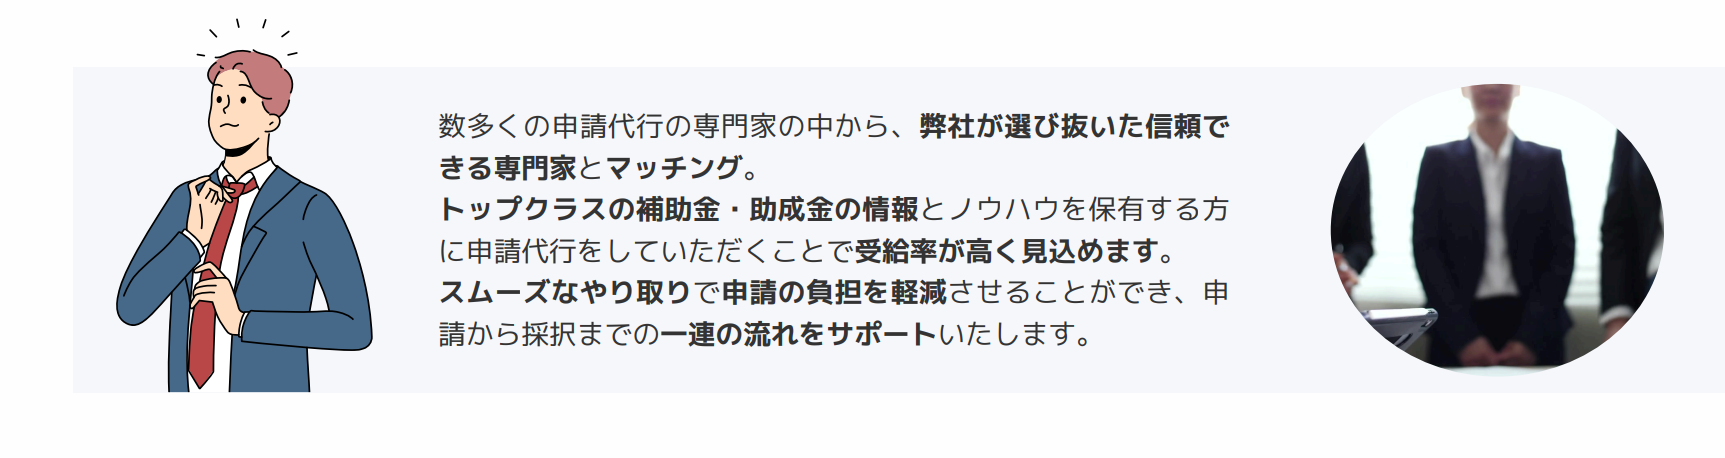
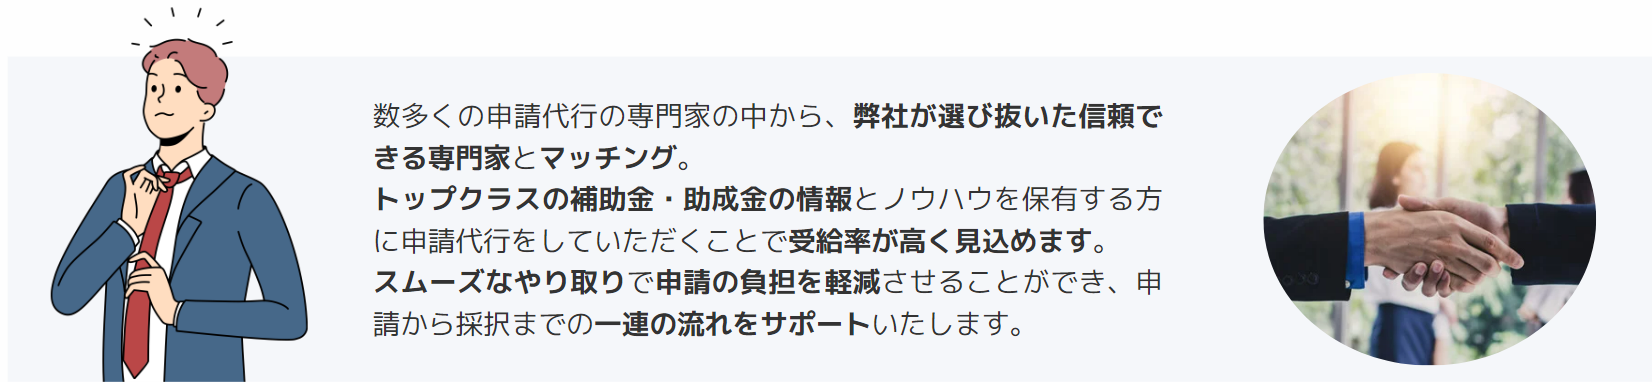
Add files via upload

diff --git a/business_style.css b/business_style.css
@@ -1,4 +1,16 @@
 @import url('https://fonts.googleapis.com/css2?family=M+PLUS+1c:wght@700&display=swap');
+html, body{
+  height: 100%;
+    margin: 0;
+}
+body{
+  display: flex;
+  flex-direction: column;
+  overflow-x: hidden;
+}
+main{
+  flex: 1 0 auto; /* Flex-grow to take up space and push footer down */
+}
 header {
   background: white;
   color: black;
@@ -61,10 +73,10 @@ header {
     background: #fff;
     margin: 4px;
   }
-.business-top {
+  .business-top {
     position: relative;
     height: 45vh;
-    background: url('jigyou.jpg') no-repeat center center/cover;
+    background: url('business.png') no-repeat center center/cover;
     display: flex;
     justify-content: flex-end;
     align-items: flex-end;
@@ -76,22 +88,21 @@ header {
     bottom: 0;
     left: 0;
     width: 100%;
-    /* padding: 20px; */
-    padding-bottom: 50px;
-    padding-left: 0px;
-    text-align: center;
-    
-  }
+    padding-bottom: 10px; /* Adjust padding if necessary */
+    padding-left: 20px; /* Add padding to position the text more inward */
+    text-align: left;
+}
 
-.business-top .overlay h1{
-    font-family: Georgia, serif;
+.business-top .overlay h1 {
+    font-family: 'M PLUS Rounded 1c', sans-serif; /* Add this to import the font */
+    font-weight: 800; /* Equivalent to ExtraBold 800 */
     color: white;
-    font-size: 3em;
+    font-size: 5em;
+    margin: 0;
+    text-shadow: 2px 2px 4px rgba(0, 0, 0, 0.5); /* Add a subtle shadow */
+
 }
 
-.business-top .overlay p{
-    font-family: system-ui;
-}
 
 .business-content {
     max-width: 600px;
@@ -136,7 +147,7 @@ header {
   }
 
   .first .result img {
-    width: 600px;
+    width: 550px;
     margin: 1em;
     border-radius: 30px;
   }
@@ -145,7 +156,8 @@ header {
     text-align: center;
     padding: 1.5em 1em;
     background-image: url(companyback.png);
-    height: 88vh;
+    height: 80vh;
+    width: 100%;
 }
 
 .second .text {
@@ -173,6 +185,7 @@ header {
     text-align: center;
     padding: 1.5em 1em;
     background-color: #fefefe;
+    width: 100%;
 }
 
 .third .content img{
@@ -185,10 +198,11 @@ header {
     padding: 1.5em 1em;
     background-image: url(companyback.png);
     height: 88vh;
+    width: 100%;
 }
 
 .fourth .content img{
-    width: 1000px;
+    width: 850px;
     margin: 1em;
     border-radius: 30px;
 }
@@ -198,13 +212,12 @@ header {
     margin: 1em;
 }
 
-
 footer {
-    background: #333;
-    color: white;
-    text-align: center;
-    padding: 1em;
-    position: relative;
-    bottom: 0;
-    width: 100%;
+  background: #333;
+  color: white;
+  text-align: center;
+  padding: 0.8em;
+  width: 100%;
+  /* Ensure the footer is at the bottom */
+  margin-top: auto;
     }

diff --git a/stylesheet.css b/stylesheet.css
@@ -1,13 +1,13 @@
 #stylesheet
 body {
-  font-family: Arial, sans-serif;
+  font-family: 'M PLUS Rounded 1c', sans-serif; /* Add this to import the font */
   margin: 0;
   padding: 0;
   color: #333;
-}
-
-body, html {
-  font-family: 'Arial', sans-serif;
+  display: flex;
+  flex-direction: column;
+  overflow-x: hidden;
+ 
 }
 
 header {
@@ -92,7 +92,7 @@ header {
   top: 10em;
   left: 0;
   right: 0;
-  padding: 20px;
+  padding: 15px;
 }
 
 .top-content {
@@ -104,13 +104,10 @@ header {
   align-items: center;
 }
 
-.top-content .contact {
+.contact {
   position: absolute;
-  top: 25em; /* Adjusts the position of the button relative to the bottom */
-  left: 1.5em; /* Adjusts the position of the button relative to the right */
-}
-
-.top-content .contact a {
+  top: 30em; /* Adjusts the position of the button relative to the top */
+  left: 1.5em; /* Adjusts the position of the button relative to the left */
   color: #001c4e;
   padding: 15px;
   text-decoration: none;
@@ -120,14 +117,14 @@ header {
   transition: background-color 0.3s ease;
   display: inline-block;
   background-color: white;
-  font-weight: bold;
-  border-radius: 5px;
-  box-shadow: 0px 2px 4px rgba(0, 0, 0, 0.2);
+  /* box-shadow: 0px 2px 4px rgba(0, 0, 0, 0.2); */
+  z-index: 10; /* Ensures button is above other elements */
 }
 
-.top-content .contact a:hover {
+.contact:hover {
   background-color: #d1e7ff;
 }
+
 
 .overlay h1 {
   width: 100%;
@@ -223,7 +220,7 @@ header {
 }
 
 .third .option a {
-  font-size: 1.2em;
+  font-size: 1.8em;
   font-weight: bold;
   color: #001c4e;
   text-decoration: none;
@@ -291,6 +288,7 @@ header {
 
 .fourth p {
   font-size: 1.8rem; /* Larger font size for paragraph */
+  font-weight: 550;
 }
 
 .fourth h2, .fourth p {

diff --git a/about_stylesheet.css b/about_stylesheet.css
@@ -67,21 +67,23 @@ header {
 }
 
 .about-section .overlay {
-    position: absolute;
-    bottom: 0;
-    left: 0;
-    width: 100%;
-    /* padding: 20px; */
-    padding-bottom: 50px;
-    padding-left: 0px;
-    text-align: center;
-    
+  position: absolute;
+  bottom: 0;
+  left: 0;
+  width: 100%;
+  padding-bottom: 10px; /* Adjust padding if necessary */
+  padding-left: 20px; /* Add padding to position the text more inward */
+  text-align: left;
   }
 
 .about-section .overlay h1{
-    font-family: Georgia, serif;
-    font-size: 3em;
-    color: white;
+  font-family: 'M PLUS Rounded 1c', sans-serif; /* Add this to import the font */
+  font-weight: 800; /* Equivalent to ExtraBold 800 */
+  color: white;
+  font-size: 3.5em;
+  margin: 0;
+  text-shadow: 2px 2px 4px rgba(0, 0, 0, 0.5); /* Add a subtle shadow */
+
 }
 
 .about-content {

diff --git a/company_style.css b/company_style.css
@@ -78,14 +78,19 @@ header {
     bottom: 0;
     left: 0;
     width: 100%;
-    padding-bottom: 50px;
-    text-align: center;
+    padding-bottom: 10px; /* Adjust padding if necessary */
+    padding-left: 20px; /* Add padding to position the text more inward */
+    text-align: left;
   }
   
   .company-top .overlay h1 {
-    font-family: Georgia, serif;
-    font-size: 3em;
+    font-family: 'M PLUS Rounded 1c', sans-serif; /* Add this to import the font */
+    font-weight: 800; /* Equivalent to ExtraBold 800 */
     color: white;
+    font-size: 5em;
+    margin: 0;
+    text-shadow: 2px 2px 4px rgba(0, 0, 0, 0.5); /* Add a subtle shadow */
+
   }
   
   .company-content {

diff --git a/index.html b/index.html
@@ -43,9 +43,10 @@
         <div class="overlay animate__animated animate__fadeInUp animate__delay-1s">
           <h1>株式会社<br>NEXT IMPACT</h1>
         </div>
-        <div class="contact">
+        <button type="button" class="contact" onclick="location.href='contact.html'">お問い合わせ</button>
+        <!-- <div class="contact">
           <a href="contact.html">お問い合わせ</a>
-        </div>
+        </div> -->
       </section>
   </div>
   <section class="second">

diff --git a/business.html b/business.html
@@ -83,10 +83,7 @@
         <img src="busi6.png">
       </div>
     </section>
-
-        
-
-</main>
+  </main>
   <footer>
     <p>&copy; 2024 株式会社ネクストインパクト. All rights reserved.</p>
   </footer>
